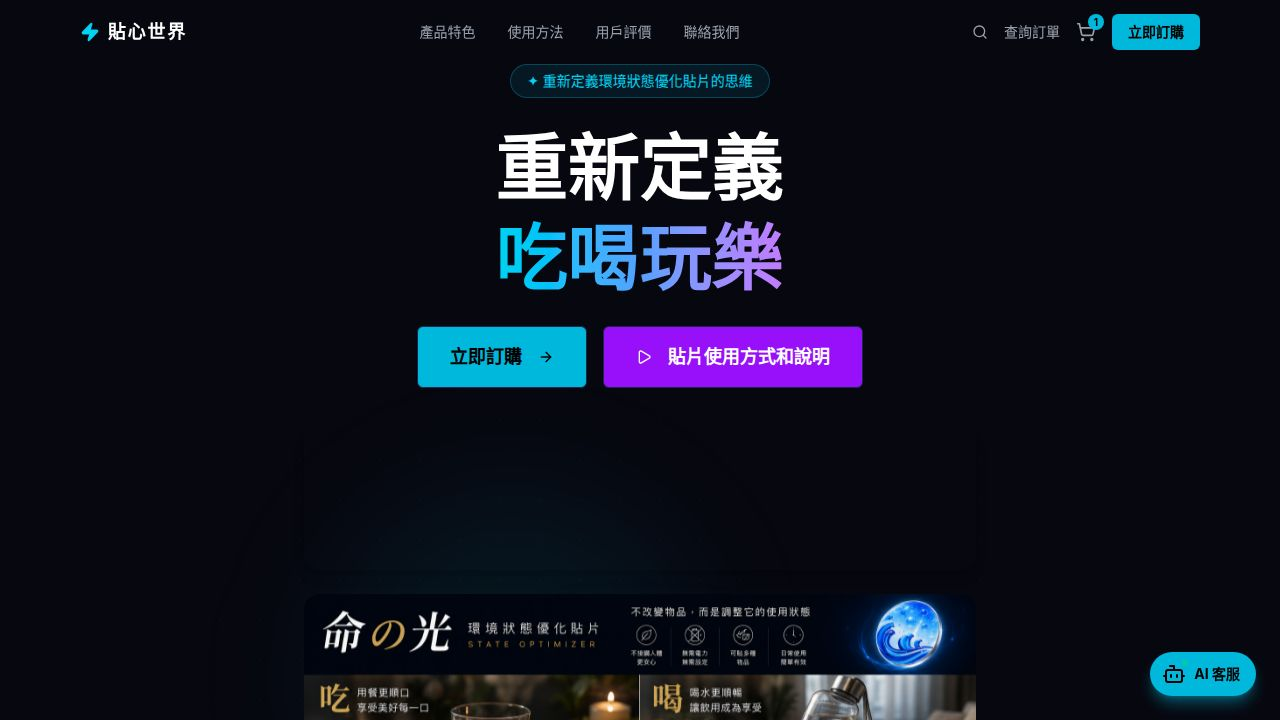
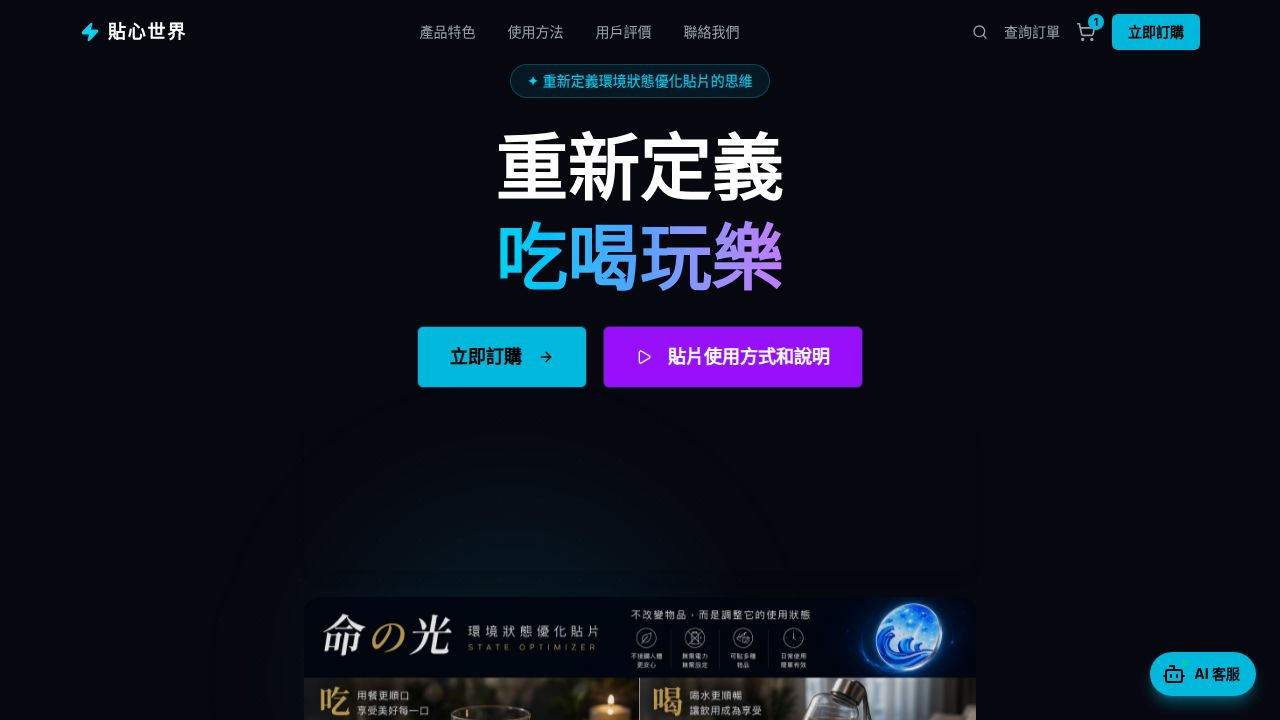
Update homepage title and branding image
Modify the main heading on the homepage from "吃喝玩樂" to "Honey" in `home.tsx` and update the `opengraph.jpg` image.

Replit-Commit-Author: Agent
Replit-Commit-Session-Id: 2324aaef-f187-49db-911e-be7f93b364ea
Replit-Commit-Checkpoint-Type: full_checkpoint
Replit-Commit-Event-Id: 51acb277-571f-43c2-9a4e-50dee232c6f4
Replit-Commit-Screenshot-Url: https://storage.googleapis.com/screenshot-production-us-central1/9fbe22f6-123c-4dcb-8b45-56e439503d7c/2324aaef-f187-49db-911e-be7f93b364ea/5peLT40
Replit-Helium-Checkpoint-Created: true

Changed region(s): [[0.25, 0.825, 0.75, 1.0], [0.7188, 0.9778, 0.7812, 1.0]]

diff --git a/artifacts/tixinshijie/src/pages/home.tsx b/artifacts/tixinshijie/src/pages/home.tsx
@@ -112,7 +112,7 @@ export default function Home() {
               <span className="text-white">重新定義</span>
               <br />
               <span className="bg-gradient-to-r from-cyan-400 via-blue-400 to-purple-400 bg-clip-text text-transparent">
-                吃喝玩樂
+                Honey
               </span>
             </motion.h1>
 